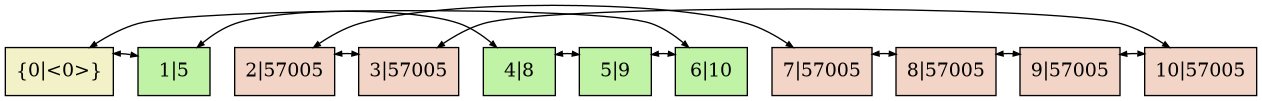
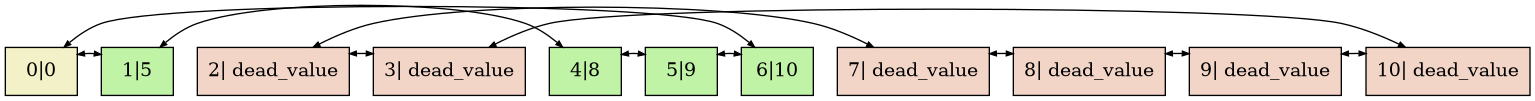
~add~ visualization + resize:3

diff --git a/list.c b/list.c
@@ -30,7 +30,7 @@ static int get_index_by_id(List* list, int id) {
 static const int dead_value = 0xdead;
 
 
-status_t list_create(List* list, int capacity) {
+list_status_t list_create(List* list, int capacity) {
 
     capacity++;
 
@@ -106,10 +106,11 @@ static void insert_between_elements(List* list, int ind_of_element, int ind_of_l
 static const int next = 1; 
 static const int prev = -1;
 
-static status_t add_element_by_index_in_direction(List* list, int ind_of_current_element, list_data_type data, int direction) {
+static list_status_t add_element_by_index_in_direction(List* list, int ind_of_current_element, list_data_type data, int direction) {
 
-    ERROR_(list->size == list->capacity, RUN_OUT_OF_MEMORY); 
-
+    if (list->size == list->capacity) {
+        ERROR_(list_resize(list), REALLOCATION_ERROR);
+    }
     int new_element_index = list->head_of_free_elements_index; 
     list->head_of_free_elements_index = cut_element_by_index(list, list->head_of_free_elements_index);
 
@@ -129,38 +130,52 @@ static status_t add_element_by_index_in_direction(List* list, int ind_of_current
 }
 
 
-status_t add_next_by_id(List* list, int id, list_data_type data) {
+list_status_t add_after_by_id(List* list, int id, list_data_type data) {
 
     ERROR_(id > list->size, INVALID_ELEM_ID); 
+    ERROR_(is_bad_ptr(list), BAD_PTR);
     
     return add_element_by_index_in_direction(list, get_index_by_id(list, id), data, next);
 }
 
-status_t add_prev_by_id(List* list, int id, list_data_type data) {
+list_status_t add_before_by_id(List* list, int id, list_data_type data) {
 
     ERROR_(id > list->size, INVALID_ELEM_ID); 
+    ERROR_(is_bad_ptr(list), BAD_PTR);
 
     return add_element_by_index_in_direction(list, get_index_by_id(list, id), data, prev);
 }
 
 
 
+list_status_t add_after_by_index(List* list, int index, list_data_type data) {
+    
+    ERROR_(is_bad_ptr(list), BAD_PTR);
+    ERROR_(index >= list->capacity, INVALID_ELEM_INDEX);
 
-status_t add_next_by_index(List* list, int index, list_data_type data) {
 
     return add_element_by_index_in_direction(list, index, data, next);
 }
 
-status_t add_prev_by_index(List* list, int index, list_data_type data) {
+list_status_t add_before_by_index(List* list, int index, list_data_type data) {
+    
+    ERROR_(is_bad_ptr(list), BAD_PTR);
+    ERROR_(index >= list->capacity, INVALID_ELEM_INDEX);
+
 
     return add_element_by_index_in_direction(list, index, data, prev);
 }
 
 
+list_status_t list_resize(List* list);
 
-status_t add_to_tail(List* list, list_data_type data) {
+list_status_t add_to_tail(List* list, list_data_type data) {
     
-    ERROR_(list->size == list->capacity, RUN_OUT_OF_MEMORY);    
+    ERROR_(is_bad_ptr(list), BAD_PTR);
+
+    if (list->size == list->capacity) {
+        list_resize(list);
+    }
 
     int ind_of_data_tail = get_index_by_id(list, list->size);
     int new_element_index = list->head_of_free_elements_index;
@@ -177,9 +192,10 @@ status_t add_to_tail(List* list, list_data_type data) {
 
 
 
-status_t delete_element_by_index(List* list, int ind_of_element) {
+list_status_t delete_element_by_index(List* list, int ind_of_element) {
 
     ERROR_(list->size == 0, NOTHING_TO_DELETE);
+    ERROR_(is_bad_ptr(list), BAD_PTR);
 
 
     list->size--;
@@ -199,9 +215,11 @@ status_t delete_element_by_index(List* list, int ind_of_element) {
     return OK;
 }
 
-status_t delete_element_by_id(List* list, int id) {
+list_status_t delete_element_by_id(List* list, int id) {
     
-    ERROR_(list->size < id, INVALID_ELEM_ID); 
+    ERROR_(list->size < id, INVALID_ELEM_ID);
+    ERROR_(is_bad_ptr(list), BAD_PTR);
+    
 
     return delete_element_by_index(list, get_index_by_id(list, id));
 }
@@ -274,6 +292,20 @@ void list_linearize(List* list) {
     list->is_sorted = true;
 }
 
+
+#define max(x, y) ((x) > (y)) ? (x) : (y)
+const int resize_multiplier = 2;
+list_status_t resize(List* list) {
+
+    ERROR_(is_bad_ptr(list), BAD_PTR);
+
+    list->capacity *= resize_multiplier * list->capacity;
+    buffer = (List_element*) realloc(buffer, list->capacity);
+
+    ERROR_(is_bad_ptr(buffer), REALLOCATION_ERROR);
+
+}
+
 void print_data_by_id(List* list, int id) {
 
     int index = get_index_by_id(list, id);
@@ -321,8 +353,7 @@ void print_graph_parameters(FILE* visualization) {
 	fputs("\t\tedge [ style = invis, dir=both, arrowsize = 0.5 ];\n\n");
 }
 
-
-void list_vis(List* list) {
+void list_visualize(List* list) {
 
     FILE* visualization = fopen("r.gv", "w");
     
@@ -330,11 +361,15 @@ void list_vis(List* list) {
     const char color_of_empty_element[] = "\"#f2d5c7\"";
 
     print_graph_parameters(visualization);
-    fprintf(visualization, "\t\tstruct%d [label=\"{0|<0>}\", style = filled, fillcolor = %s];\n",  0, "\"#f2f1c7\"");
+    fprintf(visualization, "\t\tstruct%d [label=\"0|0\", style = filled, fillcolor = %s];\n",  0, "\"#f2f1c7\"");
     
     for (int i = 1; i < list->capacity; i++) {
-        fprintf(visualization, "\t\tstruct%d [label=\"%d|%d\", style = filled, fillcolor = %s];\n", 
-                i, i, buffer[i].data, buffer[i].is_full ? color_of_full_element : color_of_empty_element);
+        if (buffer[i].is_full) 
+            fprintf(visualization, "\t\tstruct%d [label=\"%d|%d\", style = filled, fillcolor = %s];\n", 
+                    i, i, buffer[i].data, buffer[i].is_full ? color_of_full_element : color_of_empty_element);
+        else 
+        fprintf(visualization, "\t\tstruct%d [label=\"%d| dead_value\", style = filled, fillcolor = %s];\n", 
+                    i, i, buffer[i].is_full ? color_of_full_element : color_of_empty_element);    
     }
 
     int index = 0;
@@ -371,15 +406,14 @@ void list_vis(List* list) {
 
         index = buffer[index].next;
     }
-
-    
-
    
     fputs("}");
 
 
     fclose(visualization);
 }
-#undef fputs
 
+#undef fputs
 #undef buffer
+
+

diff --git a/list.h b/list.h
@@ -11,7 +11,10 @@ typedef enum {
     RUN_OUT_OF_MEMORY,
     NOTHING_TO_DELETE,
     ALLOCATION_ERROR,
-} status_t;
+    BAD_PTR,
+    INVALID_ELEM_INDEX,
+    REALLOCATION_ERROR,
+} list_status_t;
 typedef struct { //add type!!
     int prev; 
     int next; 
@@ -28,25 +31,27 @@ typedef struct {
     bool is_sorted;
 } List;
 
-status_t list_create(List* list, int capacity);
+list_status_t list_create(List* list, int capacity);
 void list_destruct(List* list);
 
-status_t add_next_by_id(List* list, int id, list_data_type data); 
-status_t add_prev_by_id(List* list, int id, list_data_type data);
-status_t add_to_tail(List* list, list_data_type data); 
+list_status_t add_after_by_id(List* list, int id, list_data_type data); 
+list_status_t add_before_by_id(List* list, int id, list_data_type data);
+list_status_t add_to_tail(List* list, list_data_type data); 
 
-status_t add_next_by_index(List* list, int index, list_data_type data);
-status_t add_prev_by_index(List* list, int index, list_data_type data);
+list_status_t add_after_by_index(List* list, int index, list_data_type data); 
+list_status_t add_before_by_index(List* list, int index, list_data_type data);
 
-status_t delete_element_by_index(List* list, int ind_of_element);
-status_t delete_element_by_id(List* list, int id);
+list_status_t delete_element_by_index(List* list, int ind_of_element);
+list_status_t delete_element_by_id(List* list, int id);
+
 void list_linearize(List* list);
+list_status_t list_resize(List* list);
 
-void list_vis(List* list); // TODO: visualize? ne smotry
+void list_visualize(List* list); 
 
-void print_data_by_id(List* list, int id);
-void print_list_data(List* list);
-void print_array_data(List* list);
-void print_full_information(List* list);
+void print_data_by_id(List* list, int id);  //
+void print_list_data(List* list);           //
+void print_array_data(List* list);          //
+void print_full_information(List* list);    //
 
 

diff --git a/main.c b/main.c
@@ -17,7 +17,7 @@ int main() {
     delete_element_by_id(&list, 2);
 
     print_full_information(&list);
-    list_vis(&list);
+    list_visualize(&list);
 
     return 0;
 }
